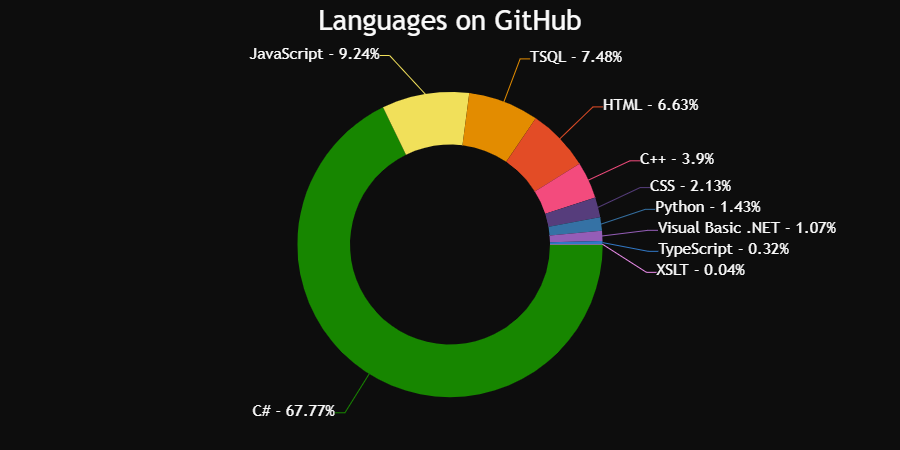
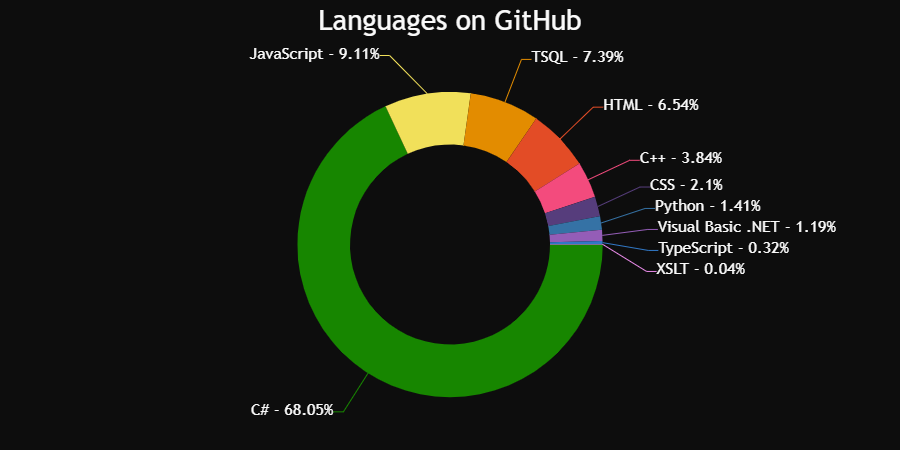
Updated charts

diff --git a/README.md b/README.md
@@ -26,12 +26,8 @@
 </div>
 
 ### 📈 My GithHub stats
-<!--
-[![GitHub Streak](https://streak-stats.demolab.com?user=arekjg&theme=dark&border_radius=5)](<[#](https://git.io/streak-stats)>)
--->
 
-![Programmin Languages](/img/LanguagesChart.png)\
-<sup>Chart made with [GitHubStats](https://github.com/arekjg/GitHubStats), includes private and public repos - last update: 26/02/2024</sup>
-
-<!-- ![](./profile-3d-contrib/profile-night-view.svg)
-<sup>Chart made with [GitHub Profile 3D Contrib.](https://github.com/yoshi389111/github-profile-3d-contrib), shows last year's contributions</sup> -->
+![Programming Languages](/img/LanguagesChart.png)\
+![Repositories](/img/ReposChart.png)
+![Contributions](/img/ContributionsChart.png)\
+<sup>Charts made with [GitHubStats](https://github.com/arekjg/GitHubStats), include private and public repos - last update: 15/03/2024</sup>
